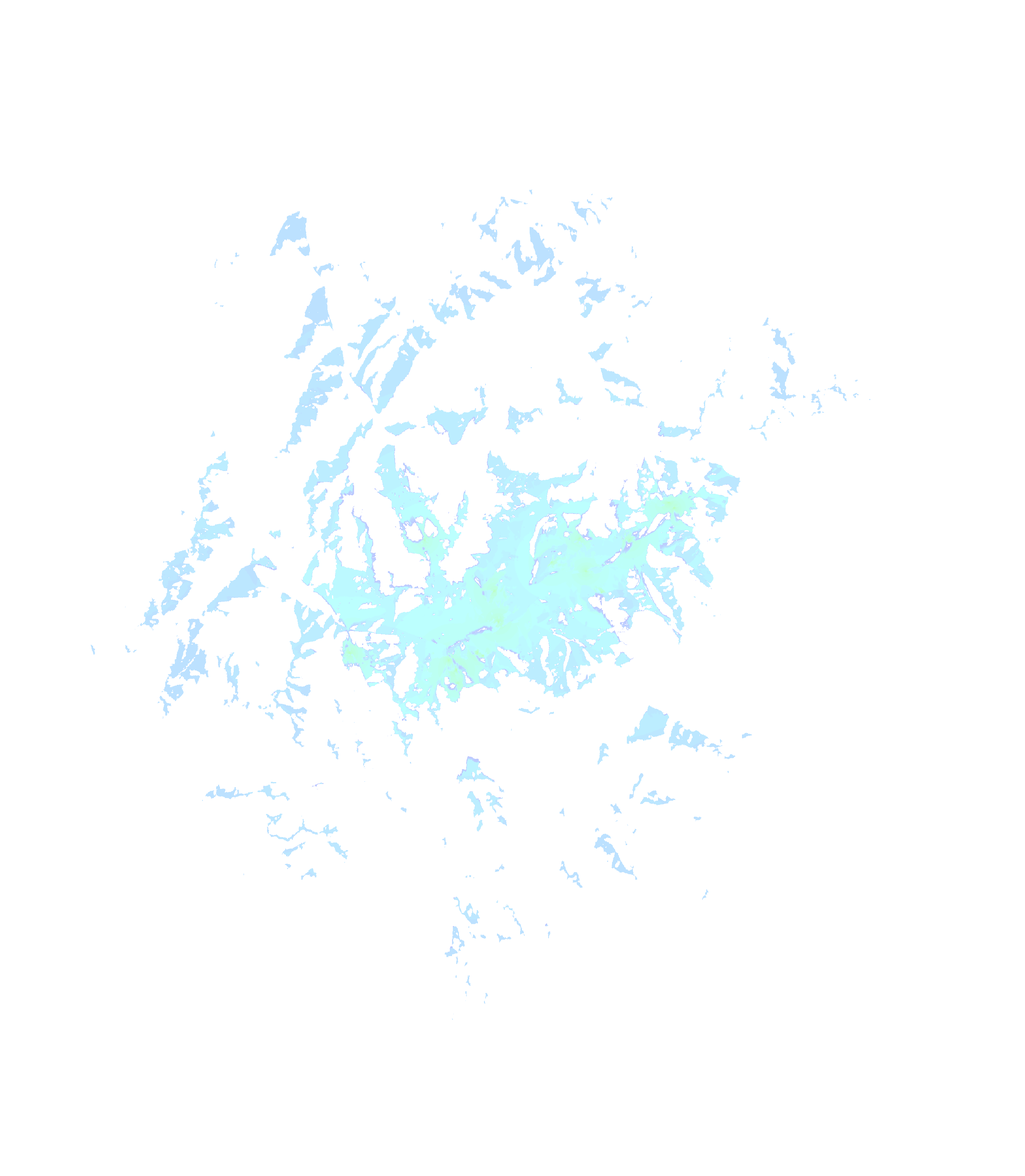
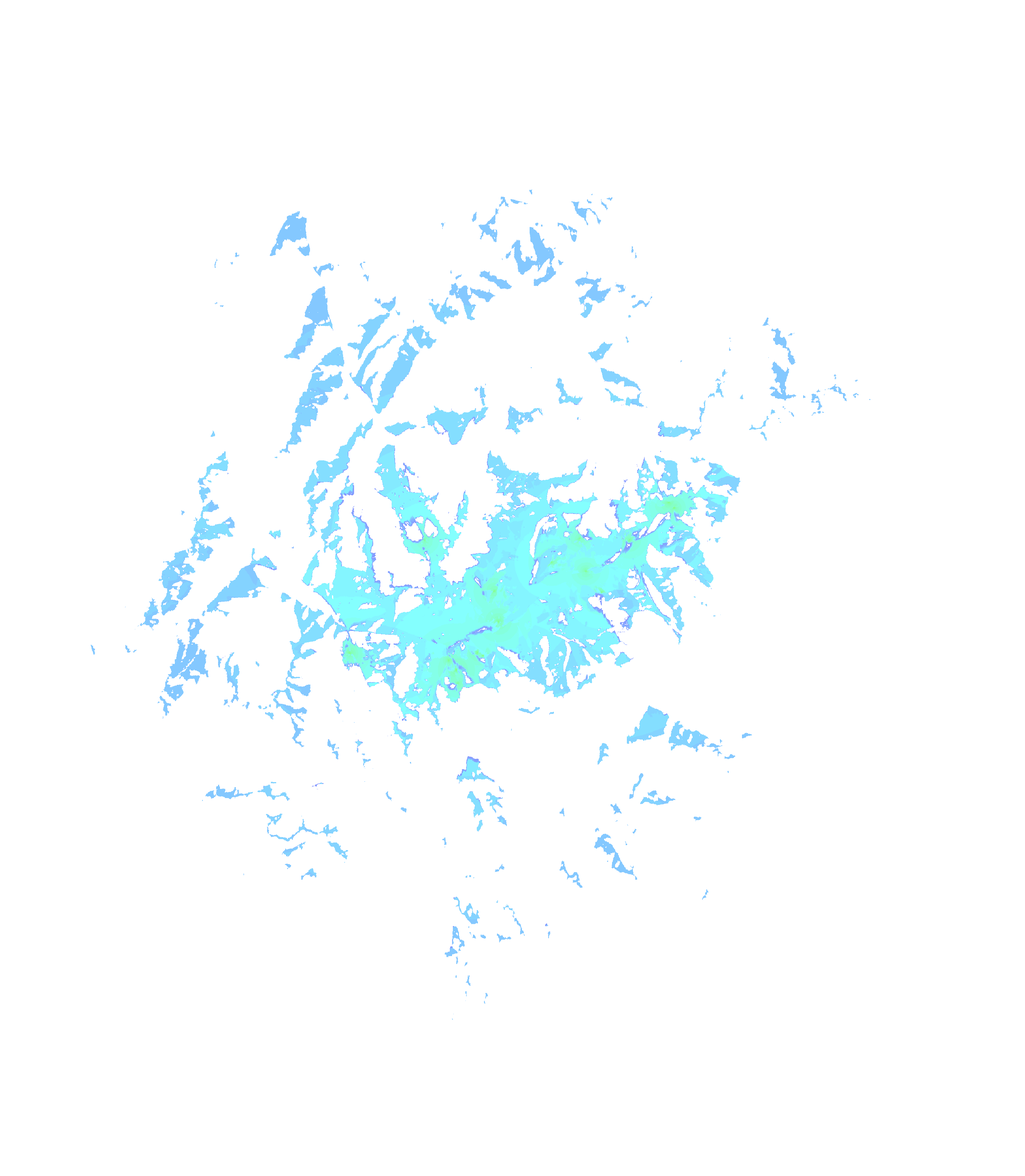
Add files via upload

diff --git a/layers/layers.js b/layers/layers.js
@@ -1,3 +1,5 @@
+ol.proj.proj4.register(proj4);
+//ol.proj.get("EPSG:3857").setExtent([695447.516498, 5629046.333862, 780869.284731, 5683540.644058]);
 var wms_layers = [];
 
 
@@ -25,7 +27,7 @@ var wms_layers = [];
 
         var lyr_CouvertureLiveObjects_2 = new ol.layer.Tile({
             'title': 'Couverture Live Objects',
-            'opacity': 0.364000,
+            'opacity': 0.426000,
             
             
             source: new ol.source.XYZ({
@@ -36,7 +38,7 @@ var wms_layers = [];
 
         var lyr_CouvertureLTEMOrange_3 = new ol.layer.Tile({
             'title': 'Couverture LTE-M Orange',
-            'opacity': 0.333000,
+            'opacity': 0.628000,
             
             
             source: new ol.source.XYZ({
@@ -191,6 +193,69 @@ var lyr_PAVs_mauriennebrutALL_13 = new ol.layer.Vector({
                 interactive: true,
                 title: '<img src="styles/legend/PAVs_mauriennebrutALL_13.png" /> PAVs_maurienne - brut ALL'
             });
+var format_Valmeinier_14 = new ol.format.GeoJSON();
+var features_Valmeinier_14 = format_Valmeinier_14.readFeatures(json_Valmeinier_14, 
+            {dataProjection: 'EPSG:4326', featureProjection: 'EPSG:3857'});
+var jsonSource_Valmeinier_14 = new ol.source.Vector({
+    attributions: ' ',
+});
+jsonSource_Valmeinier_14.addFeatures(features_Valmeinier_14);
+var lyr_Valmeinier_14 = new ol.layer.Vector({
+                declutter: false,
+                source:jsonSource_Valmeinier_14, 
+                style: style_Valmeinier_14,
+                popuplayertitle: "Valmeinier",
+                interactive: true,
+                title: '<img src="styles/legend/Valmeinier_14.png" /> Valmeinier'
+            });
+var format_BonnevalsurArc_15 = new ol.format.GeoJSON();
+var features_BonnevalsurArc_15 = format_BonnevalsurArc_15.readFeatures(json_BonnevalsurArc_15, 
+            {dataProjection: 'EPSG:4326', featureProjection: 'EPSG:3857'});
+var jsonSource_BonnevalsurArc_15 = new ol.source.Vector({
+    attributions: ' ',
+});
+jsonSource_BonnevalsurArc_15.addFeatures(features_BonnevalsurArc_15);
+var lyr_BonnevalsurArc_15 = new ol.layer.Vector({
+                declutter: false,
+                source:jsonSource_BonnevalsurArc_15, 
+                style: style_BonnevalsurArc_15,
+                popuplayertitle: "Bonneval sur Arc",
+                interactive: true,
+                title: '<img src="styles/legend/BonnevalsurArc_15.png" /> Bonneval sur Arc'
+            });
+var format_VillarodinBourgetLaNorma_16 = new ol.format.GeoJSON();
+var features_VillarodinBourgetLaNorma_16 = format_VillarodinBourgetLaNorma_16.readFeatures(json_VillarodinBourgetLaNorma_16, 
+            {dataProjection: 'EPSG:4326', featureProjection: 'EPSG:3857'});
+var jsonSource_VillarodinBourgetLaNorma_16 = new ol.source.Vector({
+    attributions: ' ',
+});
+jsonSource_VillarodinBourgetLaNorma_16.addFeatures(features_VillarodinBourgetLaNorma_16);
+var lyr_VillarodinBourgetLaNorma_16 = new ol.layer.Vector({
+                declutter: false,
+                source:jsonSource_VillarodinBourgetLaNorma_16, 
+                style: style_VillarodinBourgetLaNorma_16,
+                popuplayertitle: "Villarodin-Bourget La Norma",
+                interactive: true,
+                title: '<img src="styles/legend/VillarodinBourgetLaNorma_16.png" /> Villarodin-Bourget La Norma'
+            });
+var format_Valloire_17 = new ol.format.GeoJSON();
+var features_Valloire_17 = format_Valloire_17.readFeatures(json_Valloire_17, 
+            {dataProjection: 'EPSG:4326', featureProjection: 'EPSG:3857'});
+var jsonSource_Valloire_17 = new ol.source.Vector({
+    attributions: ' ',
+});
+jsonSource_Valloire_17.addFeatures(features_Valloire_17);cluster_Valloire_17 = new ol.source.Cluster({
+  distance: 10,
+  source: jsonSource_Valloire_17
+});
+var lyr_Valloire_17 = new ol.layer.Vector({
+                declutter: false,
+                source:cluster_Valloire_17, 
+                style: style_Valloire_17,
+                popuplayertitle: "Valloire",
+                interactive: true,
+                title: '<img src="styles/legend/Valloire_17.png" /> Valloire'
+            });
 var group_1009092435_Survey_Hte_Maurienne_Oct24 = new ol.layer.Group({
                                 layers: [lyr_1009092435_Survey_Hte_Maurienne_Oct24_10,lyr_1009092435_Survey_Hte_Maurienne_Oct24_11,lyr_1009092435_Survey_Hte_Maurienne_Oct24_12,],
                                 fold: "open",
@@ -204,8 +269,8 @@ var group_1009103435_Survey_Hte_Maurienne_Oct24V3 = new ol.layer.Group({
                                 fold: "open",
                                 title: "1009103435_Survey_Hte_Maurienne_Oct24V3"});
 
-lyr_CouvertureSigfox_0.setVisible(true);lyr_OpenStreetMap_1.setVisible(true);lyr_CouvertureLiveObjects_2.setVisible(true);lyr_CouvertureLTEMOrange_3.setVisible(true);lyr_1009103435_Survey_Hte_Maurienne_Oct24V3_4.setVisible(true);lyr_1009103435_Survey_Hte_Maurienne_Oct24V3_5.setVisible(true);lyr_1009103435_Survey_Hte_Maurienne_Oct24V3_6.setVisible(true);lyr_1009102840_Survey_Hte_Maurienne_Oct24V2_7.setVisible(true);lyr_1009102840_Survey_Hte_Maurienne_Oct24V2_8.setVisible(true);lyr_1009102840_Survey_Hte_Maurienne_Oct24V2_9.setVisible(true);lyr_1009092435_Survey_Hte_Maurienne_Oct24_10.setVisible(true);lyr_1009092435_Survey_Hte_Maurienne_Oct24_11.setVisible(true);lyr_1009092435_Survey_Hte_Maurienne_Oct24_12.setVisible(true);lyr_PAVs_mauriennebrutALL_13.setVisible(true);
-var layersList = [lyr_CouvertureSigfox_0,lyr_OpenStreetMap_1,lyr_CouvertureLiveObjects_2,lyr_CouvertureLTEMOrange_3,group_1009103435_Survey_Hte_Maurienne_Oct24V3,group_1009102840_Survey_Hte_Maurienne_Oct24V2,group_1009092435_Survey_Hte_Maurienne_Oct24,lyr_PAVs_mauriennebrutALL_13];
+lyr_CouvertureSigfox_0.setVisible(true);lyr_OpenStreetMap_1.setVisible(true);lyr_CouvertureLiveObjects_2.setVisible(true);lyr_CouvertureLTEMOrange_3.setVisible(true);lyr_1009103435_Survey_Hte_Maurienne_Oct24V3_4.setVisible(true);lyr_1009103435_Survey_Hte_Maurienne_Oct24V3_5.setVisible(true);lyr_1009103435_Survey_Hte_Maurienne_Oct24V3_6.setVisible(true);lyr_1009102840_Survey_Hte_Maurienne_Oct24V2_7.setVisible(true);lyr_1009102840_Survey_Hte_Maurienne_Oct24V2_8.setVisible(true);lyr_1009102840_Survey_Hte_Maurienne_Oct24V2_9.setVisible(true);lyr_1009092435_Survey_Hte_Maurienne_Oct24_10.setVisible(true);lyr_1009092435_Survey_Hte_Maurienne_Oct24_11.setVisible(true);lyr_1009092435_Survey_Hte_Maurienne_Oct24_12.setVisible(true);lyr_PAVs_mauriennebrutALL_13.setVisible(true);lyr_Valmeinier_14.setVisible(true);lyr_BonnevalsurArc_15.setVisible(true);lyr_VillarodinBourgetLaNorma_16.setVisible(true);lyr_Valloire_17.setVisible(true);
+var layersList = [lyr_CouvertureSigfox_0,lyr_OpenStreetMap_1,lyr_CouvertureLiveObjects_2,lyr_CouvertureLTEMOrange_3,group_1009103435_Survey_Hte_Maurienne_Oct24V3,group_1009102840_Survey_Hte_Maurienne_Oct24V2,group_1009092435_Survey_Hte_Maurienne_Oct24,lyr_PAVs_mauriennebrutALL_13,lyr_Valmeinier_14,lyr_BonnevalsurArc_15,lyr_VillarodinBourgetLaNorma_16,lyr_Valloire_17];
 lyr_1009103435_Survey_Hte_Maurienne_Oct24V3_4.set('fieldAliases', {'Name': 'Name', 'description': 'description', 'timestamp': 'timestamp', 'begin': 'begin', 'end': 'end', 'altitudeMode': 'altitudeMode', 'tessellate': 'tessellate', 'extrude': 'extrude', 'visibility': 'visibility', 'drawOrder': 'drawOrder', 'icon': 'icon', });
 lyr_1009103435_Survey_Hte_Maurienne_Oct24V3_5.set('fieldAliases', {'Name': 'Name', 'description': 'description', 'timestamp': 'timestamp', 'begin': 'begin', 'end': 'end', 'altitudeMode': 'altitudeMode', 'tessellate': 'tessellate', 'extrude': 'extrude', 'visibility': 'visibility', 'drawOrder': 'drawOrder', 'icon': 'icon', });
 lyr_1009102840_Survey_Hte_Maurienne_Oct24V2_7.set('fieldAliases', {'Name': 'Name', 'description': 'description', 'timestamp': 'timestamp', 'begin': 'begin', 'end': 'end', 'altitudeMode': 'altitudeMode', 'tessellate': 'tessellate', 'extrude': 'extrude', 'visibility': 'visibility', 'drawOrder': 'drawOrder', 'icon': 'icon', });
@@ -213,6 +278,10 @@ lyr_1009102840_Survey_Hte_Maurienne_Oct24V2_8.set('fieldAliases', {'Name': 'Name
 lyr_1009092435_Survey_Hte_Maurienne_Oct24_10.set('fieldAliases', {'Name': 'Name', 'description': 'description', 'timestamp': 'timestamp', 'begin': 'begin', 'end': 'end', 'altitudeMode': 'altitudeMode', 'tessellate': 'tessellate', 'extrude': 'extrude', 'visibility': 'visibility', 'drawOrder': 'drawOrder', 'icon': 'icon', });
 lyr_1009092435_Survey_Hte_Maurienne_Oct24_11.set('fieldAliases', {'Name': 'Name', 'description': 'description', 'timestamp': 'timestamp', 'begin': 'begin', 'end': 'end', 'altitudeMode': 'altitudeMode', 'tessellate': 'tessellate', 'extrude': 'extrude', 'visibility': 'visibility', 'drawOrder': 'drawOrder', 'icon': 'icon', });
 lyr_PAVs_mauriennebrutALL_13.set('fieldAliases', {'#': '#', 'Nom': 'Nom', 'Adresse': 'Adresse', 'Territoire': 'Territoire', 'Centre d\'exploitation': 'Centre d\'exploitation', 'Types Produit': 'Types Produit', 'Contact': 'Contact', 'Carte': 'Carte', 'Position': 'Position', 'Latitude': 'Latitude', 'Longitude': 'Longitude', 'LoRa': 'LoRa', 'Couverture LTE-M': 'Couverture LTE-M', 'CS': 'CS', 'Volume CS': 'Volume CS', 'VERRE': 'VERRE', 'Volume Verre': 'Volume Verre', 'OM': 'OM', 'Volume Ordures ménagères': 'Volume Ordures ménagères', });
+lyr_Valmeinier_14.set('fieldAliases', {'#': '#', 'Nom': 'Nom', 'Adresse': 'Adresse', 'Territoire': 'Territoire', 'Centre d\'exploitation': 'Centre d\'exploitation', 'Types Produit': 'Types Produit', 'Contact': 'Contact', 'Carte': 'Carte', 'Position': 'Position', 'Latitude': 'Latitude', 'Longitude': 'Longitude', 'LoRa': 'LoRa', 'Couverture LTE-M': 'Couverture LTE-M', 'CS': 'CS', 'Volume CS': 'Volume CS', 'VERRE': 'VERRE', 'Volume Verre': 'Volume Verre', 'OM': 'OM', 'Volume Ordures ménagères': 'Volume Ordures ménagères', });
+lyr_BonnevalsurArc_15.set('fieldAliases', {'#': '#', 'Nom': 'Nom', 'Adresse': 'Adresse', 'Territoire': 'Territoire', 'Centre d\'exploitation': 'Centre d\'exploitation', 'Types Produit': 'Types Produit', 'Contact': 'Contact', 'Carte': 'Carte', 'Position': 'Position', 'Latitude': 'Latitude', 'Longitude': 'Longitude', 'LoRa': 'LoRa', 'Couverture LTE-M': 'Couverture LTE-M', 'CS': 'CS', 'Volume CS': 'Volume CS', 'VERRE': 'VERRE', 'Volume Verre': 'Volume Verre', 'OM': 'OM', 'Volume Ordures ménagères': 'Volume Ordures ménagères', });
+lyr_VillarodinBourgetLaNorma_16.set('fieldAliases', {'#': '#', 'Nom': 'Nom', 'Adresse': 'Adresse', 'Territoire': 'Territoire', 'Centre d\'exploitation': 'Centre d\'exploitation', 'Types Produit': 'Types Produit', 'Contact': 'Contact', 'Carte': 'Carte', 'Position': 'Position', 'Latitude': 'Latitude', 'Longitude': 'Longitude', 'LoRa': 'LoRa', 'Couverture LTE-M': 'Couverture LTE-M', 'CS': 'CS', 'Volume CS': 'Volume CS', 'VERRE': 'VERRE', 'Volume Verre': 'Volume Verre', 'OM': 'OM', 'Volume Ordures ménagères': 'Volume Ordures ménagères', });
+lyr_Valloire_17.set('fieldAliases', {'#': '#', 'Nom': 'Nom', 'Adresse': 'Adresse', 'Territoire': 'Territoire', 'Centre d\'exploitation': 'Centre d\'exploitation', 'Types Produit': 'Types Produit', 'Contact': 'Contact', 'Carte': 'Carte', 'Position': 'Position', 'Latitude': 'Latitude', 'Longitude': 'Longitude', 'LoRa': 'LoRa', 'Couverture LTE-M': 'Couverture LTE-M', 'CS': 'CS', 'Volume CS': 'Volume CS', 'VERRE': 'VERRE', 'Volume Verre': 'Volume Verre', 'OM': 'OM', 'Volume Ordures ménagères': 'Volume Ordures ménagères', });
 lyr_1009103435_Survey_Hte_Maurienne_Oct24V3_4.set('fieldImages', {'Name': '', 'description': '', 'timestamp': '', 'begin': '', 'end': '', 'altitudeMode': '', 'tessellate': '', 'extrude': '', 'visibility': '', 'drawOrder': '', 'icon': '', });
 lyr_1009103435_Survey_Hte_Maurienne_Oct24V3_5.set('fieldImages', {'Name': 'TextEdit', 'description': 'TextEdit', 'timestamp': 'DateTime', 'begin': 'DateTime', 'end': 'DateTime', 'altitudeMode': 'TextEdit', 'tessellate': 'Range', 'extrude': 'Range', 'visibility': 'Range', 'drawOrder': 'Range', 'icon': 'TextEdit', });
 lyr_1009102840_Survey_Hte_Maurienne_Oct24V2_7.set('fieldImages', {'Name': '', 'description': '', 'timestamp': '', 'begin': '', 'end': '', 'altitudeMode': '', 'tessellate': '', 'extrude': '', 'visibility': '', 'drawOrder': '', 'icon': '', });
@@ -220,6 +289,10 @@ lyr_1009102840_Survey_Hte_Maurienne_Oct24V2_8.set('fieldImages', {'Name': '', 'd
 lyr_1009092435_Survey_Hte_Maurienne_Oct24_10.set('fieldImages', {'Name': '', 'description': '', 'timestamp': '', 'begin': '', 'end': '', 'altitudeMode': '', 'tessellate': '', 'extrude': '', 'visibility': '', 'drawOrder': '', 'icon': '', });
 lyr_1009092435_Survey_Hte_Maurienne_Oct24_11.set('fieldImages', {'Name': '', 'description': '', 'timestamp': '', 'begin': '', 'end': '', 'altitudeMode': '', 'tessellate': '', 'extrude': '', 'visibility': '', 'drawOrder': '', 'icon': '', });
 lyr_PAVs_mauriennebrutALL_13.set('fieldImages', {'#': 'TextEdit', 'Nom': 'TextEdit', 'Adresse': 'TextEdit', 'Territoire': 'TextEdit', 'Centre d\'exploitation': 'TextEdit', 'Types Produit': 'TextEdit', 'Contact': 'TextEdit', 'Carte': 'TextEdit', 'Position': 'TextEdit', 'Latitude': 'TextEdit', 'Longitude': 'TextEdit', 'LoRa': 'TextEdit', 'Couverture LTE-M': 'TextEdit', 'CS': 'Range', 'Volume CS': 'TextEdit', 'VERRE': 'Range', 'Volume Verre': 'TextEdit', 'OM': 'Range', 'Volume Ordures ménagères': 'TextEdit', });
+lyr_Valmeinier_14.set('fieldImages', {'#': 'Range', 'Nom': 'TextEdit', 'Adresse': 'TextEdit', 'Territoire': 'TextEdit', 'Centre d\'exploitation': 'TextEdit', 'Types Produit': 'TextEdit', 'Contact': 'TextEdit', 'Carte': 'TextEdit', 'Position': 'TextEdit', 'Latitude': 'TextEdit', 'Longitude': 'TextEdit', 'LoRa': 'TextEdit', 'Couverture LTE-M': 'TextEdit', 'CS': 'Range', 'Volume CS': 'TextEdit', 'VERRE': 'CheckBox', 'Volume Verre': 'TextEdit', 'OM': 'Range', 'Volume Ordures ménagères': 'TextEdit', });
+lyr_BonnevalsurArc_15.set('fieldImages', {'#': 'Range', 'Nom': 'TextEdit', 'Adresse': 'TextEdit', 'Territoire': 'TextEdit', 'Centre d\'exploitation': 'TextEdit', 'Types Produit': 'TextEdit', 'Contact': 'TextEdit', 'Carte': 'TextEdit', 'Position': 'TextEdit', 'Latitude': 'TextEdit', 'Longitude': 'TextEdit', 'LoRa': 'TextEdit', 'Couverture LTE-M': 'TextEdit', 'CS': 'Range', 'Volume CS': 'TextEdit', 'VERRE': 'CheckBox', 'Volume Verre': 'TextEdit', 'OM': 'Range', 'Volume Ordures ménagères': 'TextEdit', });
+lyr_VillarodinBourgetLaNorma_16.set('fieldImages', {'#': 'Range', 'Nom': 'TextEdit', 'Adresse': 'TextEdit', 'Territoire': 'TextEdit', 'Centre d\'exploitation': 'TextEdit', 'Types Produit': 'TextEdit', 'Contact': 'TextEdit', 'Carte': 'TextEdit', 'Position': 'TextEdit', 'Latitude': 'TextEdit', 'Longitude': 'TextEdit', 'LoRa': 'TextEdit', 'Couverture LTE-M': 'TextEdit', 'CS': 'Range', 'Volume CS': 'TextEdit', 'VERRE': 'CheckBox', 'Volume Verre': 'TextEdit', 'OM': 'Range', 'Volume Ordures ménagères': 'TextEdit', });
+lyr_Valloire_17.set('fieldImages', {'#': 'Range', 'Nom': 'TextEdit', 'Adresse': 'TextEdit', 'Territoire': 'TextEdit', 'Centre d\'exploitation': 'TextEdit', 'Types Produit': 'TextEdit', 'Contact': 'TextEdit', 'Carte': 'TextEdit', 'Position': 'TextEdit', 'Latitude': 'TextEdit', 'Longitude': 'TextEdit', 'LoRa': 'TextEdit', 'Couverture LTE-M': 'TextEdit', 'CS': 'Range', 'Volume CS': 'TextEdit', 'VERRE': 'CheckBox', 'Volume Verre': 'TextEdit', 'OM': 'Range', 'Volume Ordures ménagères': 'TextEdit', });
 lyr_1009103435_Survey_Hte_Maurienne_Oct24V3_4.set('fieldLabels', {'Name': 'no label', 'description': 'no label', 'timestamp': 'no label', 'begin': 'no label', 'end': 'no label', 'altitudeMode': 'no label', 'tessellate': 'no label', 'extrude': 'no label', 'visibility': 'no label', 'drawOrder': 'no label', 'icon': 'no label', });
 lyr_1009103435_Survey_Hte_Maurienne_Oct24V3_5.set('fieldLabels', {'Name': 'no label', 'description': 'no label', 'timestamp': 'no label', 'begin': 'no label', 'end': 'no label', 'altitudeMode': 'no label', 'tessellate': 'no label', 'extrude': 'no label', 'visibility': 'no label', 'drawOrder': 'no label', 'icon': 'no label', });
 lyr_1009102840_Survey_Hte_Maurienne_Oct24V2_7.set('fieldLabels', {'Name': 'no label', 'description': 'no label', 'timestamp': 'no label', 'begin': 'no label', 'end': 'no label', 'altitudeMode': 'no label', 'tessellate': 'no label', 'extrude': 'no label', 'visibility': 'no label', 'drawOrder': 'no label', 'icon': 'no label', });
@@ -227,6 +300,10 @@ lyr_1009102840_Survey_Hte_Maurienne_Oct24V2_8.set('fieldLabels', {'Name': 'no la
 lyr_1009092435_Survey_Hte_Maurienne_Oct24_10.set('fieldLabels', {'Name': 'no label', 'description': 'no label', 'timestamp': 'no label', 'begin': 'no label', 'end': 'no label', 'altitudeMode': 'no label', 'tessellate': 'no label', 'extrude': 'no label', 'visibility': 'no label', 'drawOrder': 'no label', 'icon': 'no label', });
 lyr_1009092435_Survey_Hte_Maurienne_Oct24_11.set('fieldLabels', {'Name': 'no label', 'description': 'no label', 'timestamp': 'no label', 'begin': 'no label', 'end': 'no label', 'altitudeMode': 'no label', 'tessellate': 'no label', 'extrude': 'no label', 'visibility': 'no label', 'drawOrder': 'no label', 'icon': 'no label', });
 lyr_PAVs_mauriennebrutALL_13.set('fieldLabels', {'#': 'no label', 'Nom': 'hidden field', 'Adresse': 'no label', 'Territoire': 'no label', 'Centre d\'exploitation': 'inline label - always visible', 'Types Produit': 'no label', 'Contact': 'no label', 'Carte': 'no label', 'Position': 'no label', 'Latitude': 'no label', 'Longitude': 'no label', 'LoRa': 'no label', 'Couverture LTE-M': 'no label', 'CS': 'no label', 'Volume CS': 'no label', 'VERRE': 'no label', 'Volume Verre': 'no label', 'OM': 'no label', 'Volume Ordures ménagères': 'no label', });
-lyr_PAVs_mauriennebrutALL_13.on('precompose', function(evt) {
+lyr_Valmeinier_14.set('fieldLabels', {'#': 'no label', 'Nom': 'no label', 'Adresse': 'no label', 'Territoire': 'no label', 'Centre d\'exploitation': 'no label', 'Types Produit': 'no label', 'Contact': 'no label', 'Carte': 'no label', 'Position': 'no label', 'Latitude': 'no label', 'Longitude': 'no label', 'LoRa': 'no label', 'Couverture LTE-M': 'no label', 'CS': 'no label', 'Volume CS': 'no label', 'VERRE': 'no label', 'Volume Verre': 'no label', 'OM': 'no label', 'Volume Ordures ménagères': 'no label', });
+lyr_BonnevalsurArc_15.set('fieldLabels', {'#': 'no label', 'Nom': 'no label', 'Adresse': 'no label', 'Territoire': 'no label', 'Centre d\'exploitation': 'no label', 'Types Produit': 'no label', 'Contact': 'no label', 'Carte': 'no label', 'Position': 'no label', 'Latitude': 'no label', 'Longitude': 'no label', 'LoRa': 'no label', 'Couverture LTE-M': 'no label', 'CS': 'no label', 'Volume CS': 'no label', 'VERRE': 'no label', 'Volume Verre': 'no label', 'OM': 'no label', 'Volume Ordures ménagères': 'no label', });
+lyr_VillarodinBourgetLaNorma_16.set('fieldLabels', {'#': 'no label', 'Nom': 'no label', 'Adresse': 'no label', 'Territoire': 'no label', 'Centre d\'exploitation': 'no label', 'Types Produit': 'no label', 'Contact': 'no label', 'Carte': 'no label', 'Position': 'no label', 'Latitude': 'no label', 'Longitude': 'no label', 'LoRa': 'no label', 'Couverture LTE-M': 'no label', 'CS': 'no label', 'Volume CS': 'no label', 'VERRE': 'no label', 'Volume Verre': 'no label', 'OM': 'no label', 'Volume Ordures ménagères': 'no label', });
+lyr_Valloire_17.set('fieldLabels', {'#': 'no label', 'Nom': 'no label', 'Adresse': 'no label', 'Territoire': 'no label', 'Centre d\'exploitation': 'no label', 'Types Produit': 'no label', 'Contact': 'no label', 'Carte': 'no label', 'Position': 'no label', 'Latitude': 'no label', 'Longitude': 'no label', 'LoRa': 'no label', 'Couverture LTE-M': 'no label', 'CS': 'no label', 'Volume CS': 'no label', 'VERRE': 'no label', 'Volume Verre': 'no label', 'OM': 'no label', 'Volume Ordures ménagères': 'no label', });
+lyr_Valloire_17.on('precompose', function(evt) {
     evt.context.globalCompositeOperation = 'normal';
 });

diff --git a/layers/Valloire_17.js b/layers/Valloire_17.js
@@ -1,0 +1,1 @@
+var json_Valloire_17 = {"type":"FeatureCollection","name":"Valloire_17","crs":{"type":"name","properties":{"name":"urn:ogc:def:crs:OGC:1.3:CRS84"}},"features":[{"type":"Feature","properties":{"":"698"},"geometry":{"type":"Point","coordinates":[6.444263,45.202793]}},{"type":"Feature","properties":{"":"699"},"geometry":{"type":"Point","coordinates":[6.438239,45.184289]}},{"type":"Feature","properties":{"":"700"},"geometry":{"type":"Point","coordinates":[6.436209,45.176982]}},{"type":"Feature","properties":{"":"701"},"geometry":{"type":"Point","coordinates":[6.431931,45.174173]}},{"type":"Feature","properties":{"":"702"},"geometry":{"type":"Point","coordinates":[6.433986,45.170345]}},{"type":"Feature","properties":{"":"703"},"geometry":{"type":"Point","coordinates":[6.431589,45.165032]}},{"type":"Feature","properties":{"":"704"},"geometry":{"type":"Point","coordinates":[6.430434,45.165948]}},{"type":"Feature","properties":{"":"705"},"geometry":{"type":"Point","coordinates":[6.428946,45.166859]}},{"type":"Feature","properties":{"":"706"},"geometry":{"type":"Point","coordinates":[6.429512,45.169738]}},{"type":"Feature","properties":{"":"707"},"geometry":{"type":"Point","coordinates":[6.427224,45.179285]}},{"type":"Feature","properties":{"":"708"},"geometry":{"type":"Point","coordinates":[6.42342,45.163895]}},{"type":"Feature","properties":{"":"709"},"geometry":{"type":"Point","coordinates":[6.421782,45.160361]}},{"type":"Feature","properties":{"":"710"},"geometry":{"type":"Point","coordinates":[6.420655,45.156341]}},{"type":"Feature","properties":{"":"711"},"geometry":{"type":"Point","coordinates":[6.420833,45.15583]}},{"type":"Feature","properties":{"":"712"},"geometry":{"type":"Point","coordinates":[6.420564,45.154824]}},{"type":"Feature","properties":{"":"713"},"geometry":{"type":"Point","coordinates":[6.420282,45.151928]}},{"type":"Feature","properties":{"":"714"},"geometry":{"type":"Point","coordinates":[6.420312,45.150104]}},{"type":"Feature","properties":{"":"715"},"geometry":{"type":"Point","coordinates":[6.420357,45.14912]}},{"type":"Feature","properties":{"":"716"},"geometry":{"type":"Point","coordinates":[6.420201,45.14617]}},{"type":"Feature","properties":{"":"717"},"geometry":{"type":"Point","coordinates":[6.430749,45.163141]}},{"type":"Feature","properties":{"":"718"},"geometry":{"type":"Point","coordinates":[6.434799,45.162605]}},{"type":"Feature","properties":{"":"719"},"geometry":{"type":"Point","coordinates":[6.43069,45.16694]}},{"type":"Feature","properties":{"":"720"},"geometry":{"type":"Point","coordinates":[6.428712,45.16286]}},{"type":"Feature","properties":{"":"721"},"geometry":{"type":"Point","coordinates":[6.430102,45.162757]}},{"type":"Feature","properties":{"":"722"},"geometry":{"type":"Point","coordinates":[6.429951,45.16363]}},{"type":"Feature","properties":{"":"723"},"geometry":{"type":"Point","coordinates":[6.426998,45.165583]}},{"type":"Feature","properties":{"":"724"},"geometry":{"type":"Point","coordinates":[6.43532,45.09019]}},{"type":"Feature","properties":{"":"725"},"geometry":{"type":"Point","coordinates":[6.418612,45.148238]}},{"type":"Feature","properties":{"":"726"},"geometry":{"type":"Point","coordinates":[6.417836,45.146609]}},{"type":"Feature","properties":{"":"727"},"geometry":{"type":"Point","coordinates":[6.419207,45.137054]}},{"type":"Feature","properties":{"":"728"},"geometry":{"type":"Point","coordinates":[6.418749,45.123556]}},{"type":"Feature","properties":{"":"729"},"geometry":{"type":"Point","coordinates":[6.424995,45.163955]}},{"type":"Feature","properties":{"":"730"},"geometry":{"type":"Point","coordinates":[6.427482,45.164077]}},{"type":"Feature","properties":{"":"731"},"geometry":{"type":"Point","coordinates":[6.43118,45.16691]}},{"type":"Feature","properties":{"":"732"},"geometry":{"type":"Point","coordinates":[6.430877,45.169491]}},{"type":"Feature","properties":{"":"733"},"geometry":{"type":"Point","coordinates":[6.42841,45.16549]}},{"type":"Feature","properties":{"":"734"},"geometry":{"type":"Point","coordinates":[6.434337,45.166909]}},{"type":"Feature","properties":{"":"735"},"geometry":{"type":"Point","coordinates":[6.434638,45.16607]}}]}

diff --git a/layers/Valmeinier_14.js b/layers/Valmeinier_14.js
@@ -1,0 +1,1 @@
+var json_Valmeinier_14 = {"type":"FeatureCollection","name":"Valmeinier_14","crs":{"type":"name","properties":{"name":"urn:ogc:def:crs:OGC:1.3:CRS84"}},"features":[{"type":"Feature","properties":{"":"736"},"geometry":{"type":"Point","coordinates":[6.48032,45.182183]}},{"type":"Feature","properties":{"":"737"},"geometry":{"type":"Point","coordinates":[6.480213,45.187325]}},{"type":"Feature","properties":{"":"738"},"geometry":{"type":"Point","coordinates":[6.480425,45.1862]}},{"type":"Feature","properties":{"":"739"},"geometry":{"type":"Point","coordinates":[6.48962,45.178406]}},{"type":"Feature","properties":{"":"740"},"geometry":{"type":"Point","coordinates":[6.49257,45.174456]}},{"type":"Feature","properties":{"":"741"},"geometry":{"type":"Point","coordinates":[6.492934,45.174215]}},{"type":"Feature","properties":{"":"742"},"geometry":{"type":"Point","coordinates":[6.492812,45.174576]}},{"type":"Feature","properties":{"":"743"},"geometry":{"type":"Point","coordinates":[6.493063,45.175037]}},{"type":"Feature","properties":{"":"744"},"geometry":{"type":"Point","coordinates":[6.49315,45.175554]}},{"type":"Feature","properties":{"":"745"},"geometry":{"type":"Point","coordinates":[6.491617,45.178312]}},{"type":"Feature","properties":{"":"746"},"geometry":{"type":"Point","coordinates":[6.493208,45.174149]}},{"type":"Feature","properties":{"":"747"},"geometry":{"type":"Point","coordinates":[6.493347,45.17477]}},{"type":"Feature","properties":{"":"748"},"geometry":{"type":"Point","coordinates":[6.494151,45.175108]}},{"type":"Feature","properties":{"":"749"},"geometry":{"type":"Point","coordinates":[6.494422,45.175335]}},{"type":"Feature","properties":{"":"750"},"geometry":{"type":"Point","coordinates":[6.494006,45.17223]}},{"type":"Feature","properties":{"":"751"},"geometry":{"type":"Point","coordinates":[6.493613,45.17308]}},{"type":"Feature","properties":{"":"752"},"geometry":{"type":"Point","coordinates":[6.494363,45.172944]}},{"type":"Feature","properties":{"":"753"},"geometry":{"type":"Point","coordinates":[6.495049,45.172947]}},{"type":"Feature","properties":{"":"754"},"geometry":{"type":"Point","coordinates":[6.495949,45.172591]}},{"type":"Feature","properties":{"":"755"},"geometry":{"type":"Point","coordinates":[6.496642,45.172731]}},{"type":"Feature","properties":{"":"756"},"geometry":{"type":"Point","coordinates":[6.497525,45.171038]}},{"type":"Feature","properties":{"":"757"},"geometry":{"type":"Point","coordinates":[6.497538,45.171687]}},{"type":"Feature","properties":{"":"758"},"geometry":{"type":"Point","coordinates":[6.498099,45.172229]}},{"type":"Feature","properties":{"":"759"},"geometry":{"type":"Point","coordinates":[6.497652,45.172831]}},{"type":"Feature","properties":{"":"760"},"geometry":{"type":"Point","coordinates":[6.49814,45.172705]}},{"type":"Feature","properties":{"":"761"},"geometry":{"type":"Point","coordinates":[6.472851,45.184153]}},{"type":"Feature","properties":{"":"762"},"geometry":{"type":"Point","coordinates":[6.488302,45.176917]}},{"type":"Feature","properties":{"":"763"},"geometry":{"type":"Point","coordinates":[6.473215,45.184789]}},{"type":"Feature","properties":{"":"764"},"geometry":{"type":"Point","coordinates":[6.47019,45.1876]}},{"type":"Feature","properties":{"":"765"},"geometry":{"type":"Point","coordinates":[6.480846,45.183436]}},{"type":"Feature","properties":{"":"766"},"geometry":{"type":"Point","coordinates":[6.477909,45.192005]}},{"type":"Feature","properties":{"":"767"},"geometry":{"type":"Point","coordinates":[6.484698,45.179427]}},{"type":"Feature","properties":{"":"768"},"geometry":{"type":"Point","coordinates":[6.478873,45.181935]}},{"type":"Feature","properties":{"":"769"},"geometry":{"type":"Point","coordinates":[6.465794,45.192696]}},{"type":"Feature","properties":{"":"770"},"geometry":{"type":"Point","coordinates":[6.488793,45.178793]}},{"type":"Feature","properties":{"":"771"},"geometry":{"type":"Point","coordinates":[6.48848,45.17733]}}]}

diff --git a/layers/VillarodinBourgetLaNorma_16.js b/layers/VillarodinBourgetLaNorma_16.js
@@ -1,0 +1,1 @@
+var json_VillarodinBourgetLaNorma_16 = {"type":"FeatureCollection","name":"VillarodinBourgetLaNorma_16","crs":{"type":"name","properties":{"name":"urn:ogc:def:crs:OGC:1.3:CRS84"}},"features":[{"type":"Feature","properties":{"":"800"},"geometry":{"type":"Point","coordinates":[6.707724,45.207161]}},{"type":"Feature","properties":{"":"801"},"geometry":{"type":"Point","coordinates":[6.710797,45.207547]}},{"type":"Feature","properties":{"":"802"},"geometry":{"type":"Point","coordinates":[6.712733,45.208418]}},{"type":"Feature","properties":{"":"803"},"geometry":{"type":"Point","coordinates":[6.699939,45.202401]}},{"type":"Feature","properties":{"":"804"},"geometry":{"type":"Point","coordinates":[6.698493,45.20221]}},{"type":"Feature","properties":{"":"805"},"geometry":{"type":"Point","coordinates":[6.69915,45.201293]}},{"type":"Feature","properties":{"":"806"},"geometry":{"type":"Point","coordinates":[6.70283,45.201717]}},{"type":"Feature","properties":{"":"807"},"geometry":{"type":"Point","coordinates":[6.697393,45.201748]}},{"type":"Feature","properties":{"":"808"},"geometry":{"type":"Point","coordinates":[6.69688,45.201245]}},{"type":"Feature","properties":{"":"809"},"geometry":{"type":"Point","coordinates":[6.698074,45.202966]}},{"type":"Feature","properties":{"":"810"},"geometry":{"type":"Point","coordinates":[6.696622,45.202326]}},{"type":"Feature","properties":{"":"811"},"geometry":{"type":"Point","coordinates":[6.695466,45.201606]}},{"type":"Feature","properties":{"":"812"},"geometry":{"type":"Point","coordinates":[6.694353,45.200379]}},{"type":"Feature","properties":{"":"813"},"geometry":{"type":"Point","coordinates":[6.693703,45.199752]}},{"type":"Feature","properties":{"":"814"},"geometry":{"type":"Point","coordinates":[6.691801,45.213696]}},{"type":"Feature","properties":{"":"815"},"geometry":{"type":"Point","coordinates":[6.697,45.214]}},{"type":"Feature","properties":{"":"816"},"geometry":{"type":"Point","coordinates":[6.698869,45.213773]}},{"type":"Feature","properties":{"":"EXUT 009"},"geometry":{"type":"Point","coordinates":[6.6836387,45.206949]}}]}

diff --git a/styles/Valloire_17_style.js b/styles/Valloire_17_style.js
@@ -1,7 +1,7 @@
 var size = 0;
 var placement = 'point';
 
-var style_PAVs_mauriennebrutALL_13 = function(feature, resolution){
+var style_Valloire_17 = function(feature, resolution){
     var context = {
         feature: feature,
         variables: {}
@@ -9,8 +9,8 @@ var style_PAVs_mauriennebrutALL_13 = function(feature, resolution){
     var value = ""
     var labelText = "";
     var clusteredFeatures = feature.get("features");
-    var labelFont = "7.800000000000001px \'Helvetica\', sans-serif";
-    var labelFill = "#323232";
+    var labelFont = "6.5px \'Helvetica\', sans-serif";
+    var labelFill = "#561718";
     var bufferColor = "";
     var bufferWidth = 0;
     size = clusteredFeatures.length;
@@ -32,7 +32,7 @@ var style_PAVs_mauriennebrutALL_13 = function(feature, resolution){
     }
     var style = [ new ol.style.Style({
         image: new ol.style.Circle({radius: 4.0 + size,
-            stroke: new ol.style.Stroke({color: 'rgba(35,35,35,1.0)', lineDash: null, lineCap: 'butt', lineJoin: 'miter', width: 0.0}), fill: new ol.style.Fill({color: 'rgba(225,89,137,1.0)'})}),
+            stroke: new ol.style.Stroke({color: 'rgba(35,35,35,1.0)', lineDash: null, lineCap: 'butt', lineJoin: 'miter', width: 0.0}), fill: new ol.style.Fill({color: 'rgba(152,125,183,1.0)'})}),
         text: createTextStyle(feature, resolution, labelText, labelFont,
                               labelFill, placement, bufferColor,
                               bufferWidth)

diff --git a/resources/qgis2web.js b/resources/qgis2web.js
@@ -4,12 +4,15 @@ var map = new ol.Map({
     renderer: 'canvas',
     layers: layersList,
     view: new ol.View({
-         maxZoom: 28, minZoom: 1
+         maxZoom: 28, minZoom: 1, projection: new ol.proj.Projection({
+            code: 'EPSG:3857',
+            //extent: [-20037508.342789, -20037508.342789, 20037508.342789, 20037508.342789],
+            units: 'm'})
     })
 });
 
 //initial view - epsg:3857 coordinates if not "Match project CRS"
-map.getView().fit([711243.102901, 5642560.029106, 733363.892321, 5656257.544575], map.getSize());
+map.getView().fit([695447.516498, 5629046.333862, 780869.284731, 5683540.644058], map.getSize());
 
 ////small screen definition
     var hasTouchScreen = map.getViewport().classList.contains('ol-touch');
@@ -112,8 +115,8 @@ var featureOverlay = new ol.layer.Vector({
     updateWhileInteracting: true // optional, for instant visual feedback
 });
 
-var doHighlight = false;
-var doHover = false;
+var doHighlight = true;
+var doHover = true;
 
 function createPopupField(currentFeature, currentFeatureKeys, layer) {
     var popupText = '';
@@ -457,6 +460,12 @@ var bottomRightContainerDiv = document.getElementById('bottom-right-container')
 
 //layerswitcher
 
+var layerSwitcher = new ol.control.LayerSwitcher({
+    tipLabel: "Layers",
+    target: 'top-right-container'
+});
+map.addControl(layerSwitcher);
+    
 
 
 

diff --git a/styles/VillarodinBourgetLaNorma_16_style.js b/styles/VillarodinBourgetLaNorma_16_style.js
@@ -1,0 +1,32 @@
+var size = 0;
+var placement = 'point';
+
+var style_VillarodinBourgetLaNorma_16 = function(feature, resolution){
+    var context = {
+        feature: feature,
+        variables: {}
+    };
+    var value = ""
+    var labelText = "";
+    size = 0;
+    var labelFont = "6.5px \'Helvetica\', sans-serif";
+    var labelFill = "#561718";
+    var bufferColor = "";
+    var bufferWidth = 0;
+    var textAlign = "left";
+    var offsetX = 8;
+    var offsetY = 3;
+    var placement = 'point';
+    if (feature.get("Nom") !== null) {
+        labelText = String(feature.get("Nom"));
+    }
+    var style = [ new ol.style.Style({
+        image: new ol.style.Circle({radius: 4.0 + size,
+            stroke: new ol.style.Stroke({color: 'rgba(35,35,35,1.0)', lineDash: null, lineCap: 'butt', lineJoin: 'miter', width: 0.0}), fill: new ol.style.Fill({color: 'rgba(152,125,183,1.0)'})}),
+        text: createTextStyle(feature, resolution, labelText, labelFont,
+                              labelFill, placement, bufferColor,
+                              bufferWidth)
+    })];
+
+    return style;
+};

diff --git a/styles/BonnevalsurArc_15_style.js b/styles/BonnevalsurArc_15_style.js
@@ -1,0 +1,32 @@
+var size = 0;
+var placement = 'point';
+
+var style_BonnevalsurArc_15 = function(feature, resolution){
+    var context = {
+        feature: feature,
+        variables: {}
+    };
+    var value = ""
+    var labelText = "";
+    size = 0;
+    var labelFont = "6.5px \'Helvetica\', sans-serif";
+    var labelFill = "#561718";
+    var bufferColor = "";
+    var bufferWidth = 0;
+    var textAlign = "left";
+    var offsetX = 8;
+    var offsetY = 3;
+    var placement = 'point';
+    if (feature.get("Nom") !== null) {
+        labelText = String(feature.get("Nom"));
+    }
+    var style = [ new ol.style.Style({
+        image: new ol.style.Circle({radius: 4.0 + size,
+            stroke: new ol.style.Stroke({color: 'rgba(35,35,35,1.0)', lineDash: null, lineCap: 'butt', lineJoin: 'miter', width: 0.0}), fill: new ol.style.Fill({color: 'rgba(152,125,183,1.0)'})}),
+        text: createTextStyle(feature, resolution, labelText, labelFont,
+                              labelFill, placement, bufferColor,
+                              bufferWidth)
+    })];
+
+    return style;
+};

diff --git a/styles/Valmeinier_14_style.js b/styles/Valmeinier_14_style.js
@@ -1,0 +1,32 @@
+var size = 0;
+var placement = 'point';
+
+var style_Valmeinier_14 = function(feature, resolution){
+    var context = {
+        feature: feature,
+        variables: {}
+    };
+    var value = ""
+    var labelText = "";
+    size = 0;
+    var labelFont = "6.5px \'Helvetica\', sans-serif";
+    var labelFill = "#561718";
+    var bufferColor = "";
+    var bufferWidth = 0;
+    var textAlign = "left";
+    var offsetX = 8;
+    var offsetY = 3;
+    var placement = 'point';
+    if (feature.get("Nom") !== null) {
+        labelText = String(feature.get("Nom"));
+    }
+    var style = [ new ol.style.Style({
+        image: new ol.style.Circle({radius: 4.0 + size,
+            stroke: new ol.style.Stroke({color: 'rgba(35,35,35,1.0)', lineDash: null, lineCap: 'butt', lineJoin: 'miter', width: 0.0}), fill: new ol.style.Fill({color: 'rgba(152,125,183,1.0)'})}),
+        text: createTextStyle(feature, resolution, labelText, labelFont,
+                              labelFill, placement, bufferColor,
+                              bufferWidth)
+    })];
+
+    return style;
+};

diff --git a/layers/BonnevalsurArc_15.js b/layers/BonnevalsurArc_15.js
@@ -1,0 +1,1 @@
+var json_BonnevalsurArc_15 = {"type":"FeatureCollection","name":"BonnevalsurArc_15","crs":{"type":"name","properties":{"name":"urn:ogc:def:crs:OGC:1.3:CRS84"}},"features":[{"type":"Feature","properties":{"":"98"},"geometry":{"type":"Point","coordinates":[7.047099,45.371209]}},{"type":"Feature","properties":{"":"99"},"geometry":{"type":"Point","coordinates":[7.049481,45.372402]}},{"type":"Feature","properties":{"":"100"},"geometry":{"type":"Point","coordinates":[7.054066,45.374086]}},{"type":"Feature","properties":{"":"101"},"geometry":{"type":"Point","coordinates":[7.058518,45.375183]}}]}
